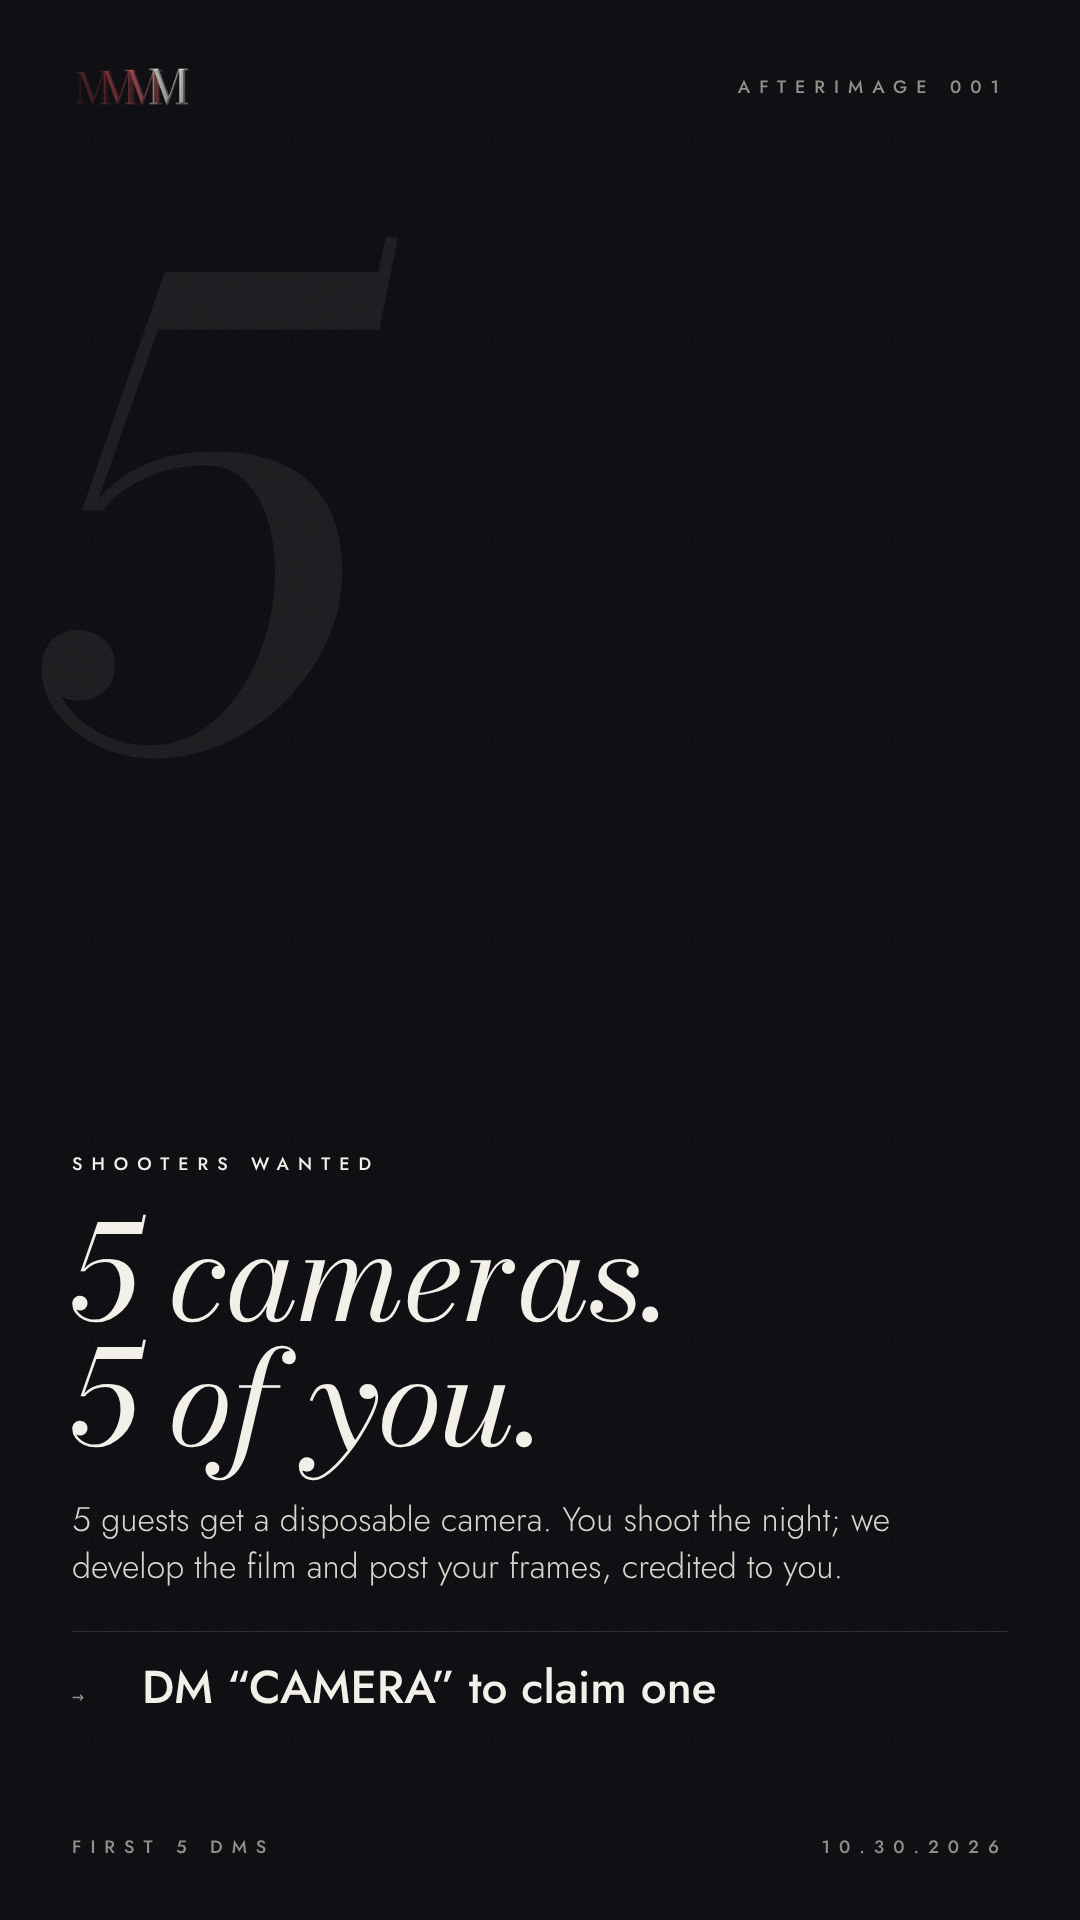
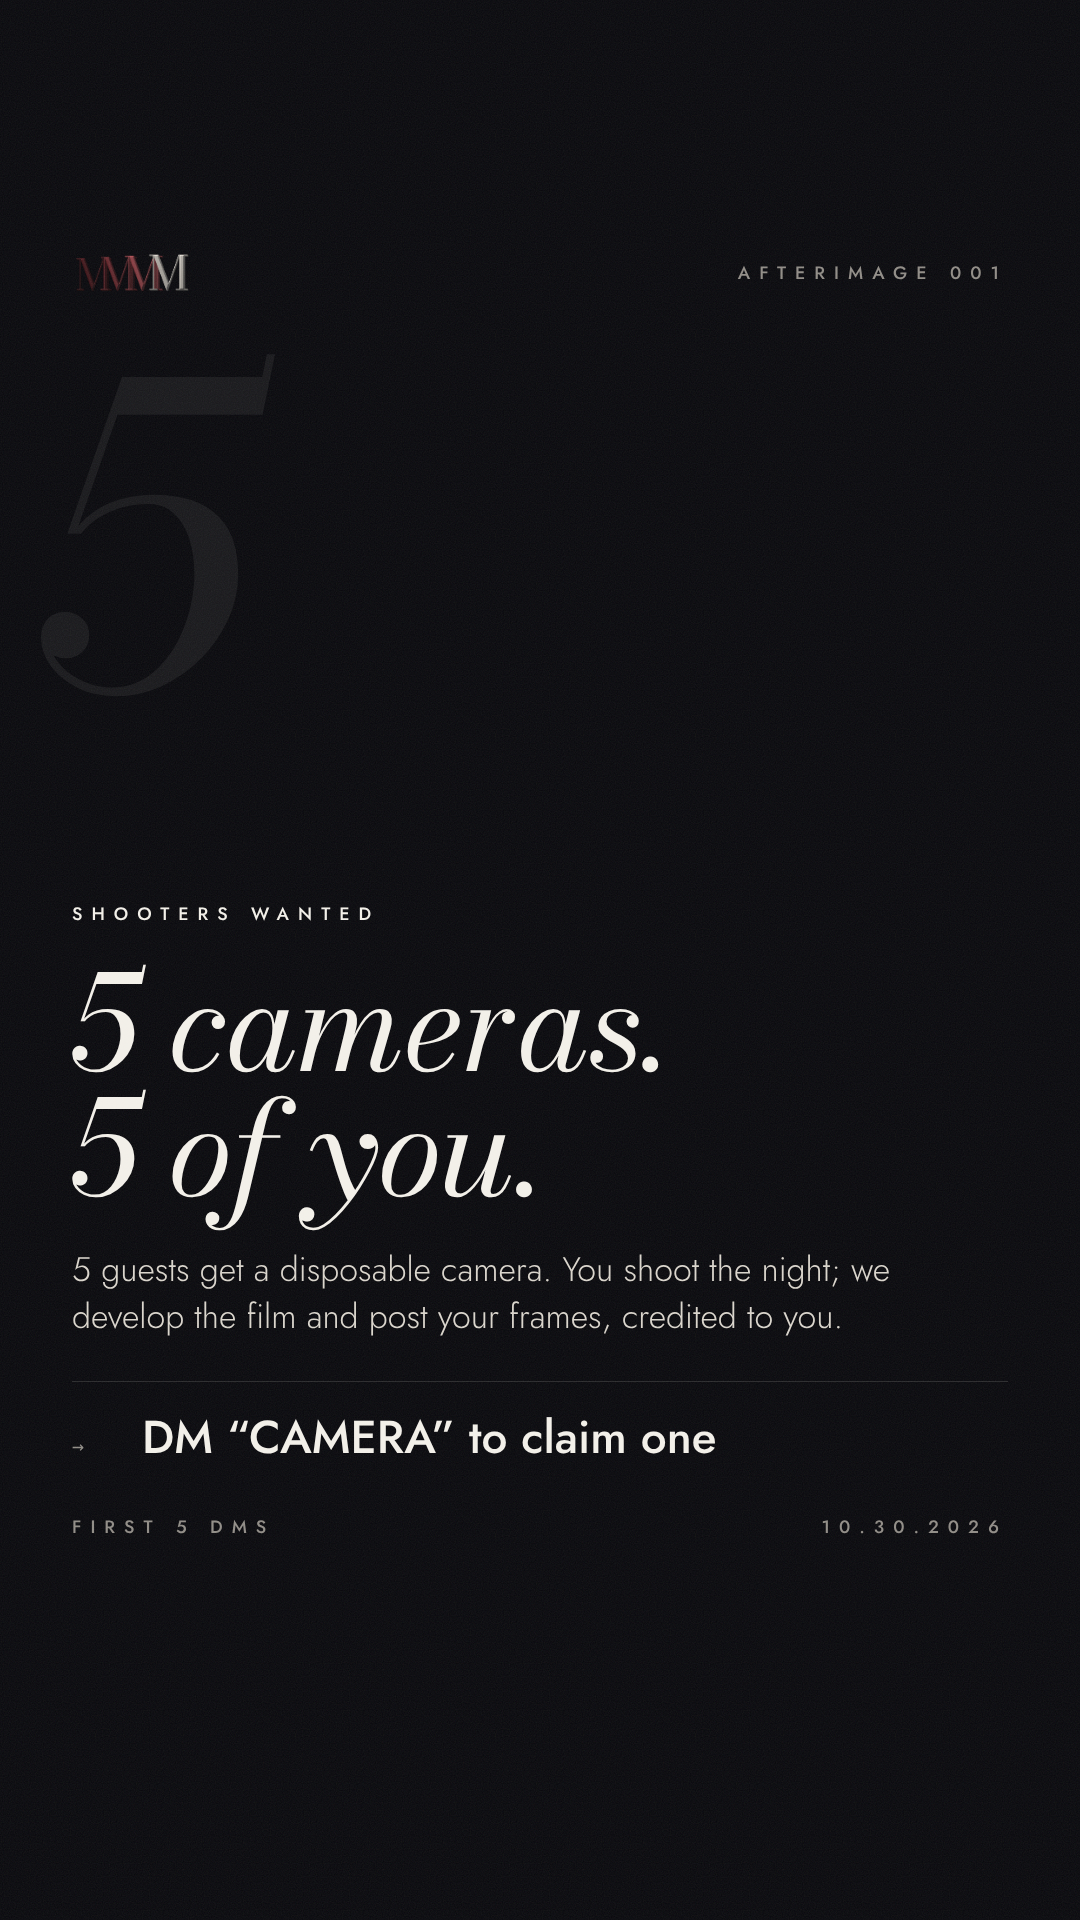
Camera stories: move type into the Instagram story safe zone, leave room for a sticker
Claude-Session: https://claude.ai/code/session_01A4LNKAXFW4TxnWYyCtkq6Z

diff --git a/media/posts/lineup_v2/src/promo_18oct.html b/media/posts/lineup_v2/src/promo_18oct.html
@@ -21,7 +21,7 @@ html, body { background: var(--night); }
 .foot { position: absolute; left: 72px; right: 72px; bottom: 60px; display: flex; justify-content: space-between; align-items: center; }
 .mono { font-family: JB, monospace; letter-spacing: .08em; }
 /* film strip: real 35 mm edge markings as the frame of the camera story */
-.strip { position: absolute; left: 90px; right: 90px; top: 360px; height: 980px; border: 2px solid rgba(242,239,232,.9); }
+.strip { position: absolute; left: 90px; right: 90px; top: 430px; height: 720px; border: 2px solid rgba(242,239,232,.9); }
 .strip .holes { position: absolute; top: 0; bottom: 0; width: 46px; display: flex; flex-direction: column; justify-content: space-around; align-items: center; }
 .strip .holes.l { left: -62px; } .strip .holes.r2 { right: -62px; }
 .strip .holes i { width: 26px; height: 36px; border-radius: 4px; background: var(--bone); opacity: .85; display: block; }
@@ -60,6 +60,9 @@ html, body { background: var(--night); }
 .door .hr { height: 2px; background: currentColor; opacity: .25; }
 .door .small { font-size: 26px; letter-spacing: .3em; text-transform: uppercase; font-weight: 500; opacity: .7; }
 .door img.mk { height: 96px; }
+/* IG story safe zone: profile bar covers the top ~250 px, reply bar the bottom ~340 px */
+.s.story .top { top: 250px; } .s.story .foot { bottom: 380px; }
+.s.story .sticker { position: absolute; left: 72px; right: 72px; height: 170px; border: 1px dashed rgba(242,239,232,.28); display: grid; place-items: center; font: 500 16px Jost; letter-spacing: .4em; color: rgba(242,239,232,.35); text-transform: uppercase; }
 </style></head><body><div id="root"></div><script>
 const v = new URLSearchParams(location.search).get('v'), R = document.getElementById('root');
 const MARK = '<img src="../logo/MOTION_mark_3d.png" alt="">';
@@ -67,12 +70,12 @@ const FOOT = (l, r) => `<div class="foot"><span class="k">${l}</span><span class
 const holes = n => Array.from({length: n}, () => '<i></i>').join('');
 const V = {
   camstory: `<div class="s story"><div class="top">${MARK}<span class="k">AFTERIMAGE 001</span></div>
-    <div style="position:absolute;left:72px;right:72px;top:190px" class="k b">10.30.2026 · Devil’s Night</div>
+    <div style="position:absolute;left:72px;right:72px;top:340px" class="k b">10.30.2026 · Devil’s Night</div>
     <div class="strip"><div class="img"></div><div class="holes l">${holes(9)}</div><div class="holes r2">${holes(9)}</div>
       <span class="edge" style="left:12px;top:-34px">MOTION 400 · B&amp;W</span><span class="edge" style="right:12px;top:-34px">24A ▸ 25</span>
       <span class="edge" style="left:12px;bottom:-34px">MOTION 01 / 05</span><span class="edge" style="right:12px;bottom:-34px">25A ▸</span></div>
-    <div style="position:absolute;left:72px;right:72px;top:1430px;display:grid;gap:26px">
-      <div class="it" style="font-size:118px">No phones.</div><div class="rule"></div>
+    <div style="position:absolute;left:72px;right:72px;top:1210px;display:grid;gap:22px">
+      <div class="it" style="font-size:104px">No phones.</div><div class="rule"></div>
       <div style="font-size:34px;font-weight:300;line-height:1.45;color:#d9d4cb">5 disposable cameras go round the room. Shoot, pass it on. We develop the film and post it after.</div></div>
     ${FOOT('Invite only', 'RSVP · link in bio')}</div>`,
   lineup: `<div class="s"><div class="top">${MARK}<span class="k">AFTERIMAGE 001</span></div>
@@ -109,7 +112,7 @@ V.camsign = `<div class="s"><div class="top">${MARK}<span class="k">AFTERIMAGE 0
       <p style="max-width:900px">5 guests get a disposable camera. You shoot the night; we develop the film and post your frames, credited to you.</p>
       <div class="list" style="margin-top:6px"><div><span>→</span><b>DM “CAMERA” to claim one</b></div></div></div>
     ${FOOT('First 5 DMs', '10.30.2026')}</div>`;
-V.camsignstory = V.camsign.replace('class="s"', 'class="s story"').replace('top:120px;left:40px;font-size:400px', 'top:200px;left:40px;font-size:640px');
+V.camsignstory = V.camsign.replace('class="s"', 'class="s story"').replace('<div class="bignum" style="top:120px;left:40px;font-size:400px">5</div>', '<div class="bignum" style="top:330px;left:40px;font-size:420px">5</div>').replace('class="big low" style="bottom:200px"', 'class="big low" style="bottom:450px"');
 V.doordark = V.door.replace('class="door"', 'class="door dark"');
 R.innerHTML = V[v] || '';
 </script></body></html>
